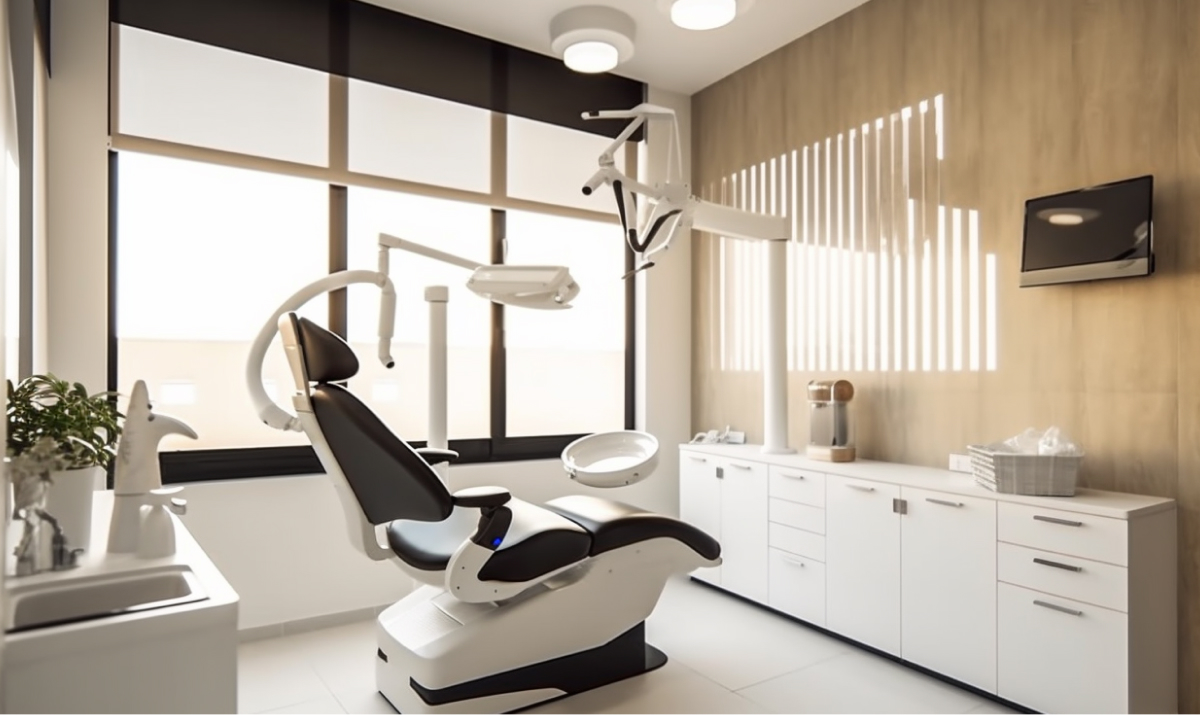
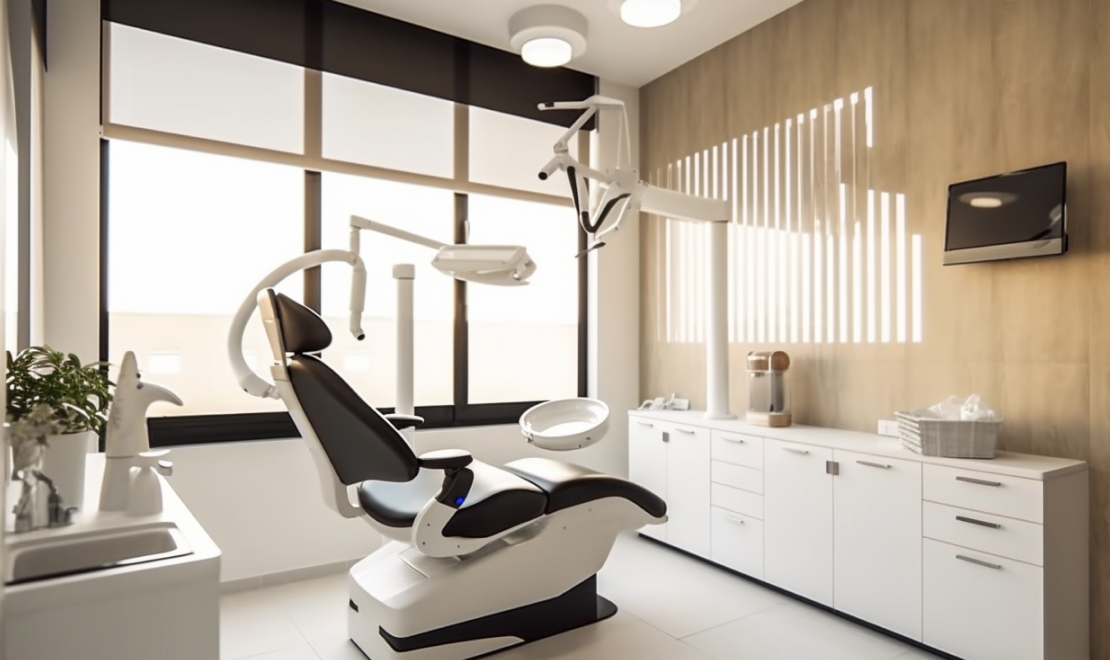
About page updates
Header img
headings

diff --git a/about.html b/about.html
@@ -77,7 +77,7 @@
   </nav>
   <header class="exterior">
     <div class="container-fluid px-0">
-      <div class="row gx-0">
+      <div class="row flex-column-reverse flex-lg-row gx-0">
         <div class="col-lg-5">
           <div class="header-ext__content">
             <div class="section-title">
@@ -92,6 +92,11 @@
         </div>
         <div class="col-lg-7">
           <div class="header-ext__img">
+            <picture>
+              <source srcset="img/img-header-ext.jpg 1x, img/img-header-ext@2x.jpg 2x" type="image/jpeg"
+                media="(max-width: 320px)">
+              <img src="img/img-header-ext.jpg" width="1110" height="660" alt="" decoding="async">
+            </picture>
           </div>
         </div>
       </div>
@@ -107,10 +112,7 @@
     <div class="container">
       <div class="row">
         <div class="col-lg-8 offset-lg-2">
-          <div class="section-title">
-            <h3 class="overline">Підзаголовок</h3>
-            <h3 class="title">Сучасна стоматологія для Вас!</h3>
-          </div>
+          <h3 class="title">Сучасна стоматологія для Вас!</h3>
           <p>Sagittis nulla mauris at tincidunt et massa morbi suspendisse. Vitae quis pretium laoreet gravida fermentum
             auctor adipiscing. Elit lectus nisl proin urna velit. Praesent neque magna in amet integer integer amet sit.
             Maecenas pellentesque erat cras nisl erat at. Quis in scelerisque maecenas nunc urna. Semper pulvinar mollis

diff --git a/css/style.less b/css/style.less
@@ -751,25 +751,36 @@ header {
       @media (min-width: 1200px) {
         min-height: 484px;
       }
+      @media @breakpoint-mobile {
+        padding: 2rem;
+      }
     }
     .header-ext__img {
+      position: relative;
       width: 100%;
       height: 100%;
-      background-image: url(../img/img-header-ext.jpg);
-      background-position: center;
-      background-repeat: no-repeat;
-      background-size: cover;
-      flex-shrink: 0;
-      @media only screen and (-webkit-min-device-pixel-ratio: 2),
-        only screen and (min--moz-device-pixel-ratio: 2),
-        only screen and (-o-min-device-pixel-ratio: 2/1),
-        only screen and (min-device-pixel-ratio: 2),
-        only screen and (min-resolution: 192dpi),
-        only screen and (min-resolution: 2dppx) {
-        background-image: url(../img/img-header-ext@2x.jpg);
-      }
+      overflow: hidden;
+      text-align: center;
+      display: flex;
+      align-items: center;
+      justify-content: center;
       @media @breakpoint-tablet {
-        height: 200px;
+        height: 280px;
+      }
+      img {
+        position: absolute;
+        right: 0;
+        bottom: 0;
+        object-fit: cover;
+        height: 100%;
+        width: 100%;
+        top: 0;
+        left: 0;
+        @media @breakpoint-mobile-sm {
+          position: inherit;
+          max-width: 100%;
+          height: auto;
+        }
       }
     }
   }

diff --git a/css/style.css b/css/style.css
@@ -789,23 +789,41 @@ header.exterior .header-ext__content {
     min-height: 484px;
   }
 }
+@media (max-width: 767px) {
+  header.exterior .header-ext__content {
+    padding: 2rem;
+  }
+}
 header.exterior .header-ext__img {
+  position: relative;
   width: 100%;
   height: 100%;
-  background-image: url(../img/img-header-ext.jpg);
-  background-position: center;
-  background-repeat: no-repeat;
-  background-size: cover;
-  flex-shrink: 0;
-}
-@media only screen and (-webkit-min-device-pixel-ratio: 2), only screen and (min--moz-device-pixel-ratio: 2), only screen and (-o-min-device-pixel-ratio: 2/1), only screen and (min-device-pixel-ratio: 2), only screen and (min-resolution: 192dpi), only screen and (min-resolution: 2dppx) {
-  header.exterior .header-ext__img {
-    background-image: url(../img/img-header-ext@2x.jpg);
-  }
+  overflow: hidden;
+  text-align: center;
+  display: flex;
+  align-items: center;
+  justify-content: center;
 }
 @media (max-width: 991px) {
   header.exterior .header-ext__img {
-    height: 200px;
+    height: 280px;
+  }
+}
+header.exterior .header-ext__img img {
+  position: absolute;
+  right: 0;
+  bottom: 0;
+  object-fit: cover;
+  height: 100%;
+  width: 100%;
+  top: 0;
+  left: 0;
+}
+@media (max-width: 575px) {
+  header.exterior .header-ext__img img {
+    position: inherit;
+    max-width: 100%;
+    height: auto;
   }
 }
 .breadcrumb-custom {
